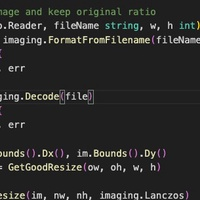
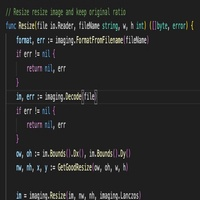
add resize

diff --git a/utils/images/images.go b/utils/images/images.go
@@ -9,8 +9,56 @@ import (
 	"github.com/disintegration/imaging"
 )
 
-// Resize resize image and keep original ratio
+// Crop crop image
+func Crop(file io.Reader, fileName string, x, y, w, h int) ([]byte, error) {
+	format, err := imaging.FormatFromFilename(fileName)
+	if err != nil {
+		return nil, err
+	}
+	im, err := imaging.Decode(file)
+	if err != nil {
+		return nil, err
+	}
+	im = imaging.Crop(im, image.Rect(x, y, x+w, y+h))
+	buff := new(bytes.Buffer)
+	err = imaging.Encode(buff, im, format)
+	if nil != err {
+		return nil, err
+	}
+	return buff.Bytes(), nil
+}
+
+// Resize resize image
 func Resize(file io.Reader, fileName string, w, h int) ([]byte, error) {
+	format, err := imaging.FormatFromFilename(fileName)
+	if err != nil {
+		return nil, err
+	}
+	im, err := imaging.Decode(file)
+	if err != nil {
+		return nil, err
+	}
+	if w <= 0 || h <= 0 {
+		ow, oh := im.Bounds().Dx(), im.Bounds().Dy()
+		if w <= 0 { // resize by height
+			w = ow * h / oh
+		}
+		if h <= 0 { // resize by width
+			h = oh * w / ow
+		}
+	}
+
+	im = imaging.Resize(im, w, h, imaging.Lanczos)
+	buff := new(bytes.Buffer)
+	err = imaging.Encode(buff, im, format)
+	if nil != err {
+		return nil, err
+	}
+	return buff.Bytes(), nil
+}
+
+// Thumb resize image and keep original ratio
+func Thumbnail(file io.Reader, fileName string, w, h int) ([]byte, error) {
 	format, err := imaging.FormatFromFilename(fileName)
 	if err != nil {
 		return nil, err
@@ -52,23 +100,4 @@ func GetGoodResize(ow, oh, w, h int) (int, int, int, int) {
 		}
 	}
 	return nw, nh, x, y
-}
-
-// Crop crop image
-func Crop(file io.Reader, fileName string, x, y, w, h int) ([]byte, error) {
-	format, err := imaging.FormatFromFilename(fileName)
-	if err != nil {
-		return nil, err
-	}
-	im, err := imaging.Decode(file)
-	if err != nil {
-		return nil, err
-	}
-	im = imaging.Crop(im, image.Rect(x, y, x+w, y+h))
-	buff := new(bytes.Buffer)
-	err = imaging.Encode(buff, im, format)
-	if nil != err {
-		return nil, err
-	}
-	return buff.Bytes(), nil
 }

diff --git a/utils/images/images_test.go b/utils/images/images_test.go
@@ -26,3 +26,12 @@ func TestCrop(t *testing.T) {
 	err = os.WriteFile(env.GetPath("utils/images/test_cropped.jpg"), bytes, 0644)
 	assert.Nil(t, err)
 }
+
+func TestThumbnail(t *testing.T) {
+	file, err := os.Open(env.GetPath("utils/images/test.jpg"))
+	assert.Nil(t, err)
+	bytes, err := images.Thumbnail(file, "test.jpg", 200, 200)
+	assert.Nil(t, err)
+	err = os.WriteFile(env.GetPath("utils/images/test_thumbnail.jpg"), bytes, 0644)
+	assert.Nil(t, err)
+}
